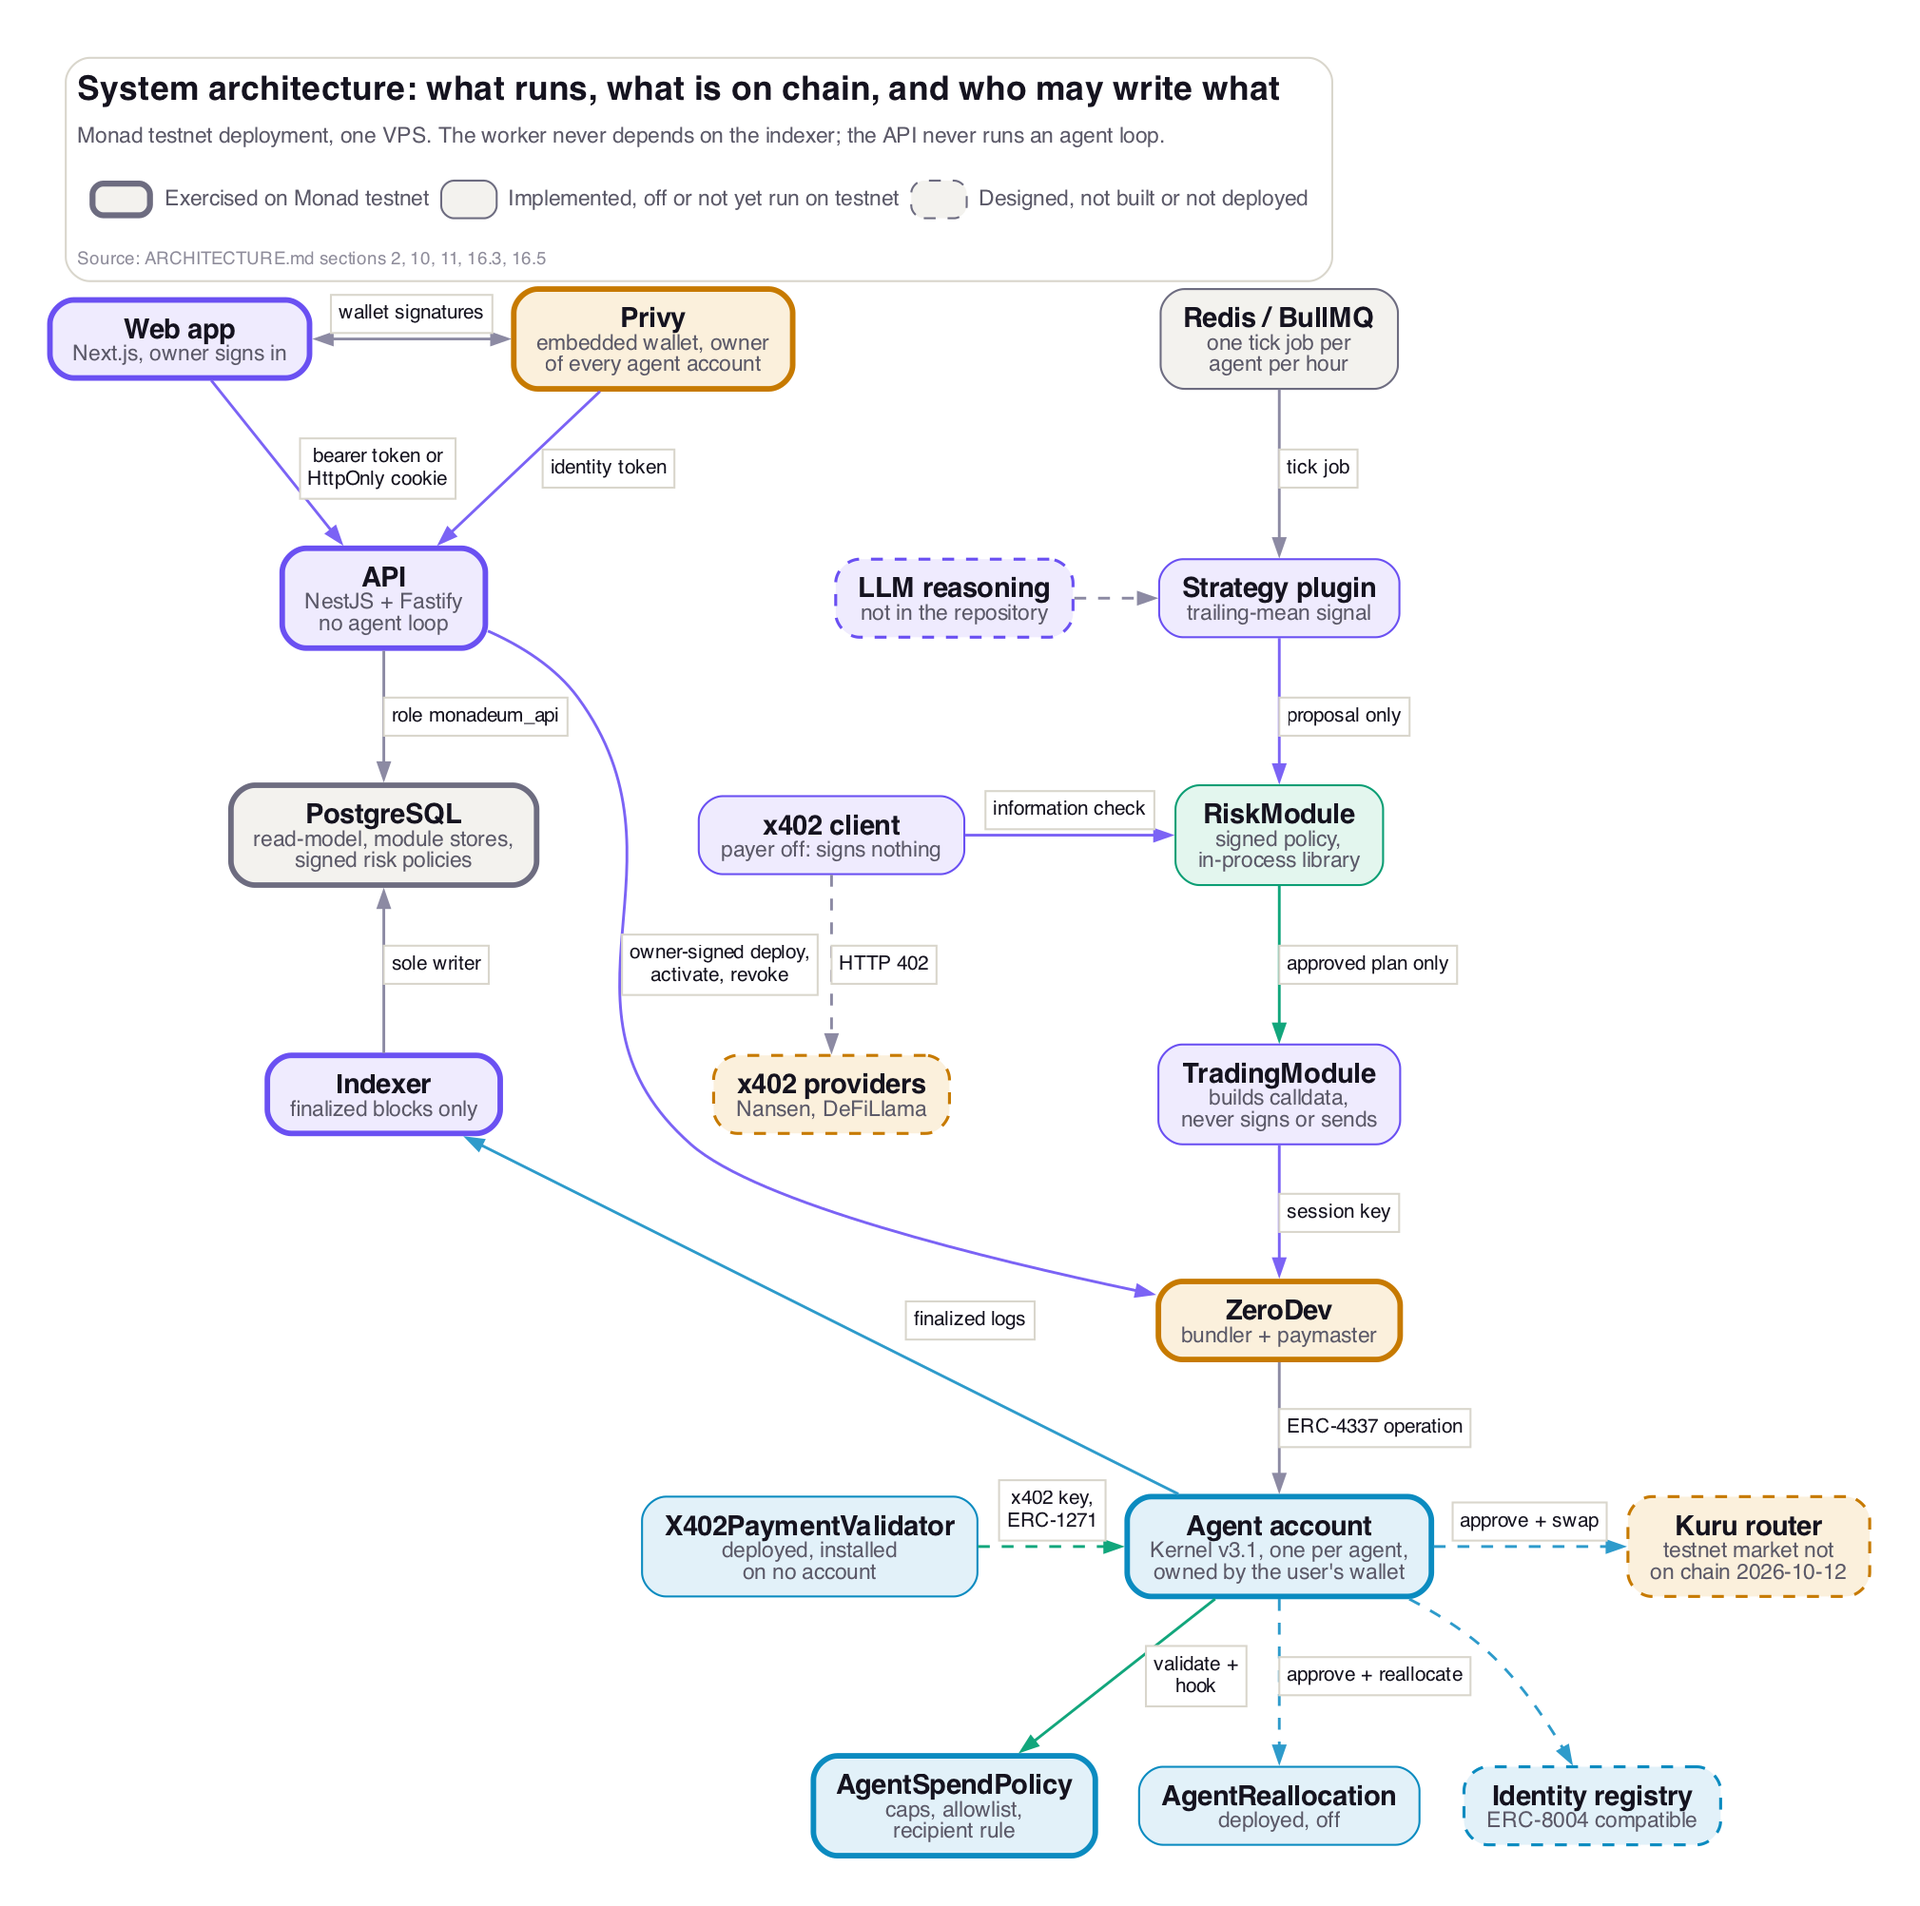
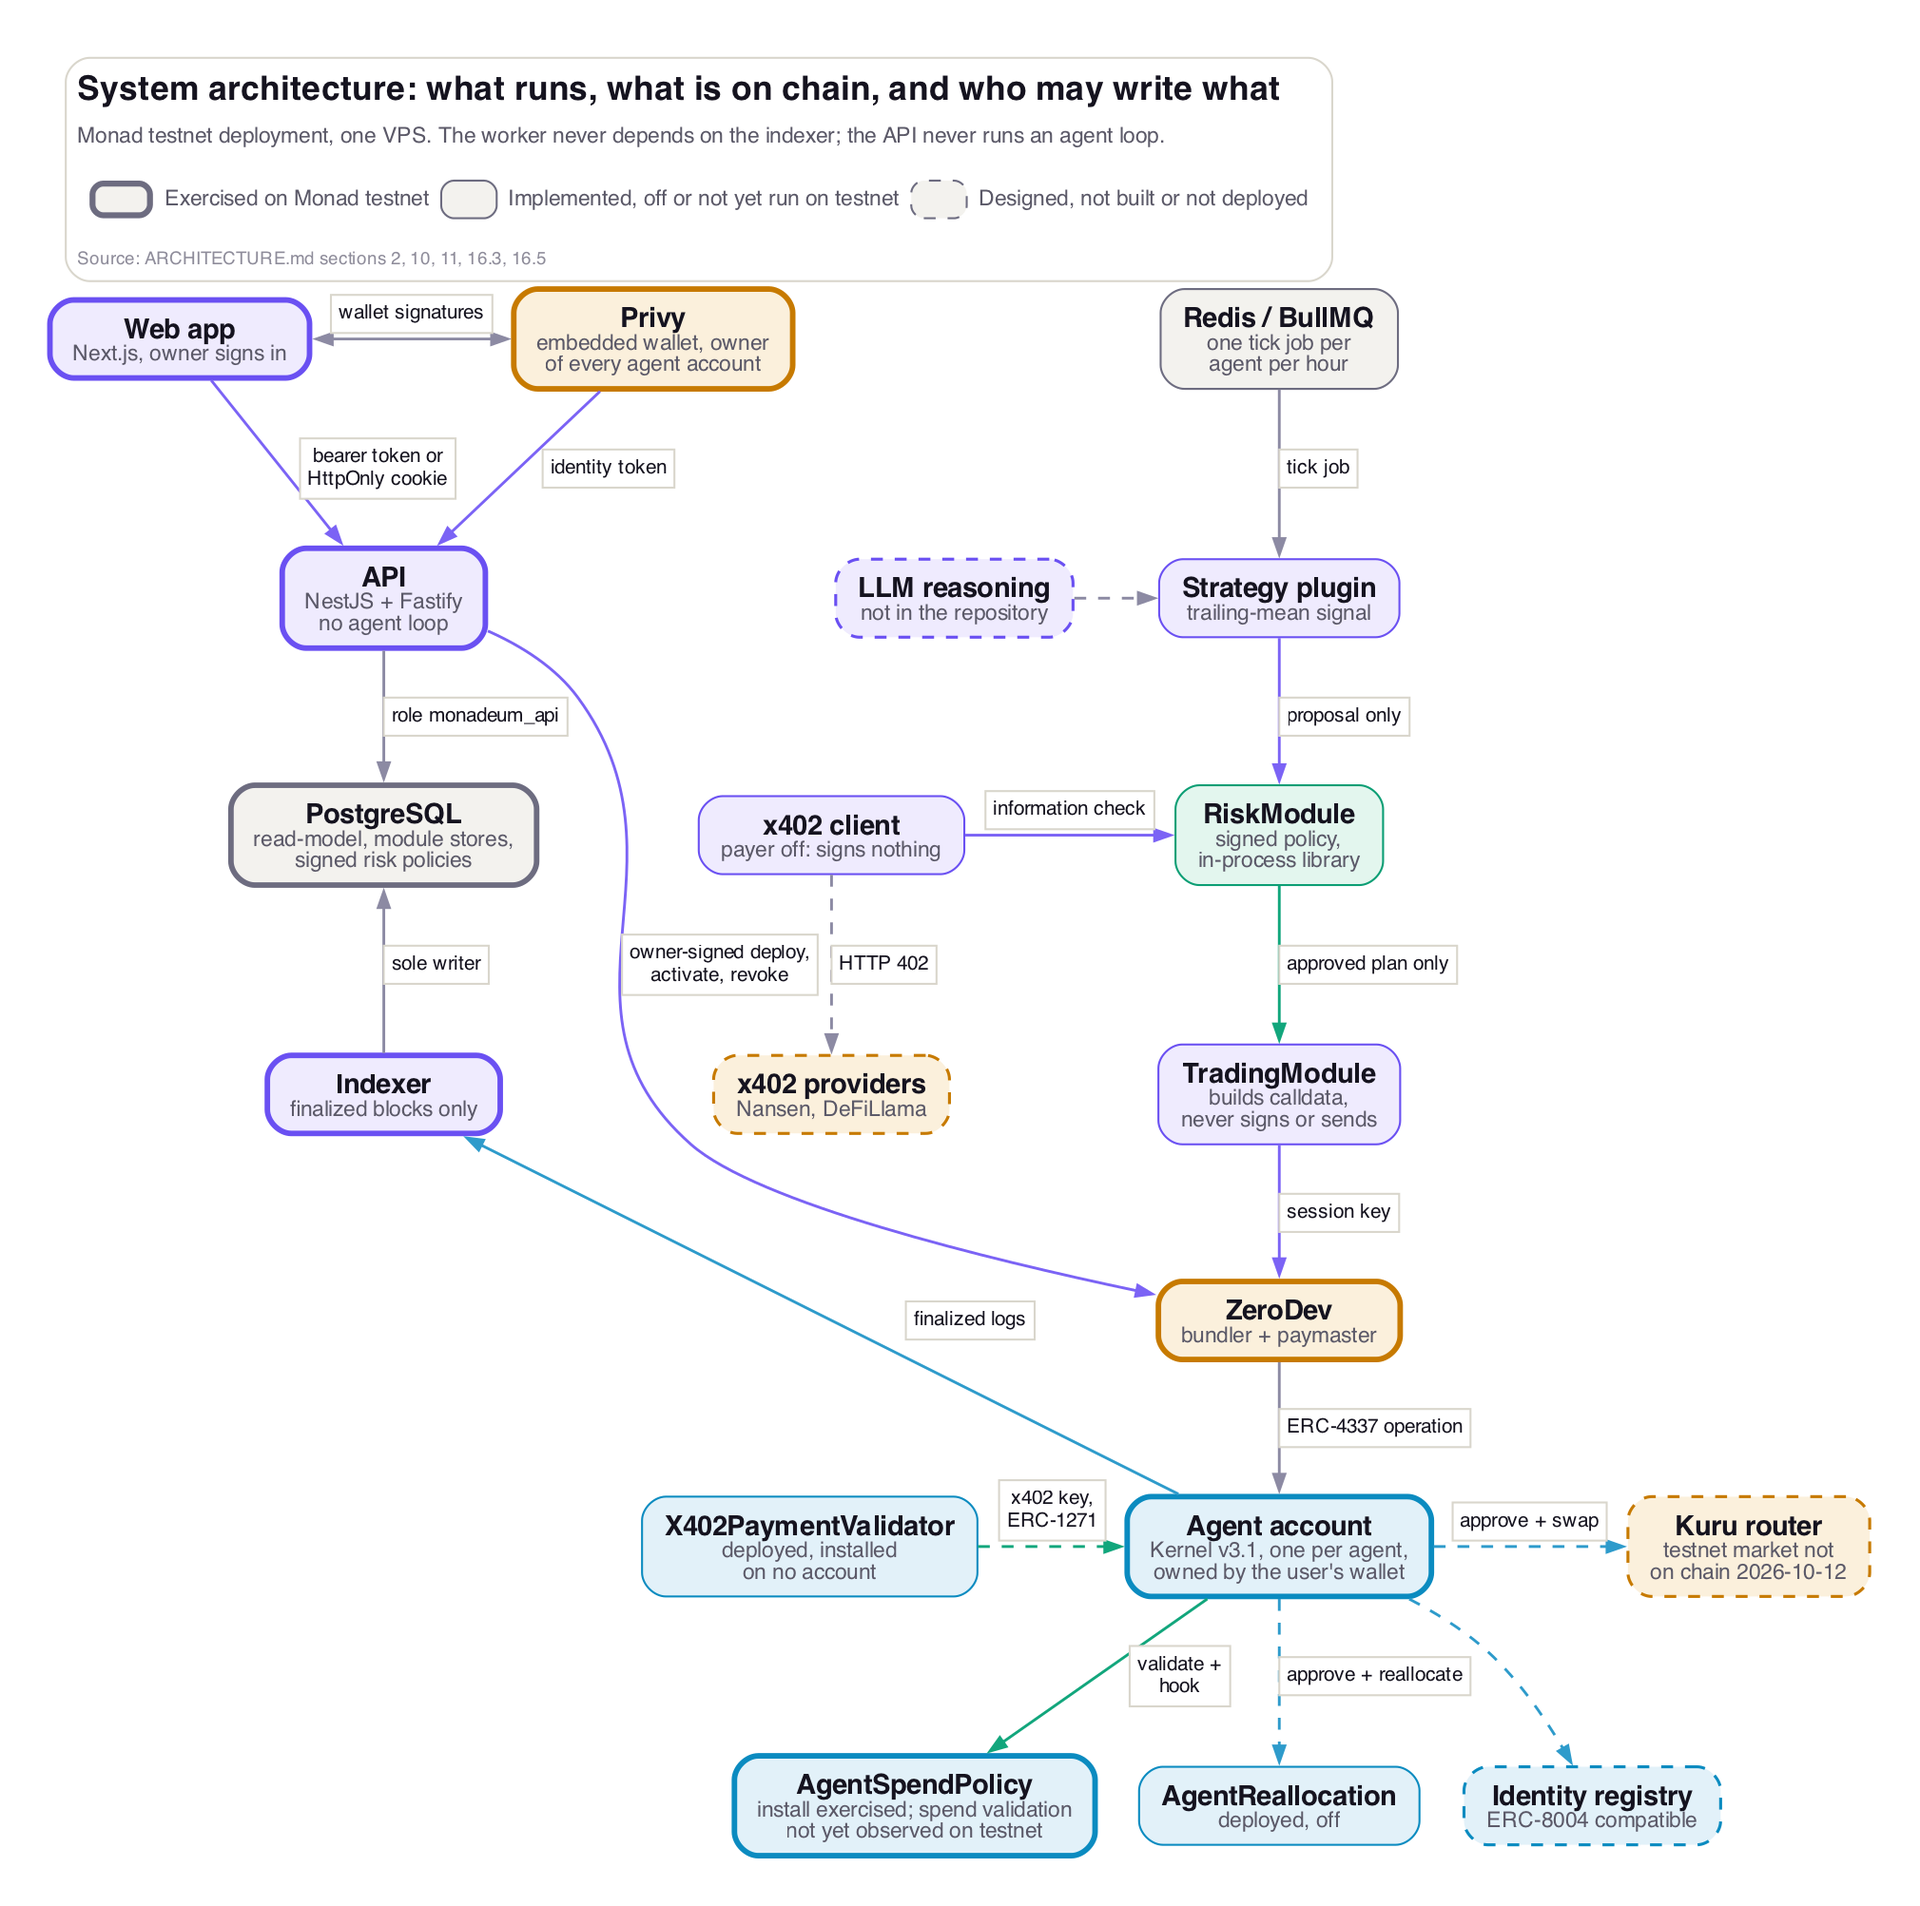
fix(docs): align diagram status borders with observed testnet evidence

Changed region(s): [[0.3744, 0.8968, 0.5617, 0.9895], [0.5617, 0.8349, 0.6553, 0.8968]]

diff --git a/diagrams/generator/04-spend-control-layers.py b/diagrams/generator/04-spend-control-layers.py
@@ -52,12 +52,12 @@ card(g, "l1v", "Layer 1a: spend policy check, validation phase",
       "Recipient decoded only on transfer and approve of the",
       "settlement asset or a traded asset; must be an allowed contract",
       "Zero native value; per-tx cap on the sum of a batch"],
-     kind="chain", status=IMPL)
+     kind="chain", status=OFF)
 
 card(g, "l1e", "Layer 1b: spend policy record, execution phase",
      ["Rolling daily cap: 25 hourly buckets, never under-counts",
       "Needs the clock, which ERC-7562 forbids in validation"],
-     kind="chain", status=IMPL)
+     kind="chain", status=OFF)
 
 card(g, "done", "Transfer executes",
      ["Settlement asset moves only to an allowlisted contract", "within the per-transaction and daily caps"],
@@ -77,7 +77,7 @@ with g.subgraph(name="cluster_side") as c:
          kind="chain", status=OFF)
     card(c, "erc1271", "Trading key cannot sign",
          ["ERC-1271 check always fails; the", "skip-signature flag is never set"],
-         kind="control", status=IMPL)
+         kind="control", status=OFF)
     card(c, "l3", "Population circuit breaker",
          ["Capital at risk and reallocation volume", "across all agents; not built"],
          kind="control", status=DESIGN)

diff --git a/diagrams/generator/09-trust-boundaries.py b/diagrams/generator/09-trust-boundaries.py
@@ -35,7 +35,7 @@ with g.subgraph(name="cluster_untrusted") as c:
     card(c, "prov", "x402 provider responses", ["text and data are live input", "to anything that stores or logs them"],
          kind="threat", status=DESIGN)
     card(c, "gift", "Unsolicited transfer", ["a token or NFT sent to an", "agent's public address"],
-         kind="threat", status=IMPL)
+         kind="threat", status=OFF)
 
 with g.subgraph(name="cluster_platform") as c:
     c.attr(**panel("Platform, trusted for the MVP", tint="#F2EFFE", line="#C9BFF6"))
@@ -52,7 +52,7 @@ with g.subgraph(name="cluster_platform") as c:
 
 with g.subgraph(name="cluster_chain") as c:
     c.attr(**panel("Monad: enforces its rules whatever the platform does", tint="#EAF4FA", line="#B9D9EA"))
-    card(c, "acct", "Agent account + spend policy", ["allowlist, recipient rule, caps;", "no default-allow path"],
+    card(c, "acct", "Agent account + spend policy", ["allowlist, recipient rule, caps;", "install exercised, spend validation", "not yet observed on testnet"],
          kind="chain", status=IMPL)
     card(c, "realloc", "Reallocation contract", ["same owner, owner's policy in force,", "cap, floor, ceiling"],
          kind="chain", status=OFF)

diff --git a/diagrams/generator/01-system-architecture.py b/diagrams/generator/01-system-architecture.py
@@ -50,7 +50,7 @@ card(g, "zerodev", "ZeroDev", ["bundler + paymaster"], kind="external", status=I
 
 # -------------------------------------------------------------------- chain
 card(g, "acct", "Agent account", ["Kernel v3.1, one per agent,", "owned by the user's wallet"], kind="chain", status=IMPL)
-card(g, "spend", "AgentSpendPolicy", ["caps, allowlist,", "recipient rule"], kind="chain", status=IMPL)
+card(g, "spend", "AgentSpendPolicy", ["install exercised; spend validation", "not yet observed on testnet"], kind="chain", status=IMPL)
 card(g, "x402v", "X402PaymentValidator", ["deployed, installed", "on no account"], kind="chain", status=OFF)
 card(g, "realloc", "AgentReallocation", ["deployed, off"], kind="chain", status=OFF)
 card(g, "reg", "Identity registry", ["ERC-8004 compatible"], kind="chain", status=DESIGN)

diff --git a/diagrams/generator/10-indexer-sync.py b/diagrams/generator/10-indexer-sync.py
@@ -68,7 +68,7 @@ card(g, "pj", "Worker principal job", ["SELECT only, up to the finalized bound",
      kind="service", status=OFF)
 card(g, "nodep", "The worker never imports the indexer",
      ["A tick reads the agent record, not the read-model,", "so an indexer outage only delays a principal change"],
-     kind="threat", status=IMPL)
+     kind="threat", status=OFF)
 
 card(g, "conf", "Alternative to step 1: confirmation depth",
      ["Explicit setting only, default 10 blocks below head", "Never an automatic fallback; cursor not marked finalized"],
